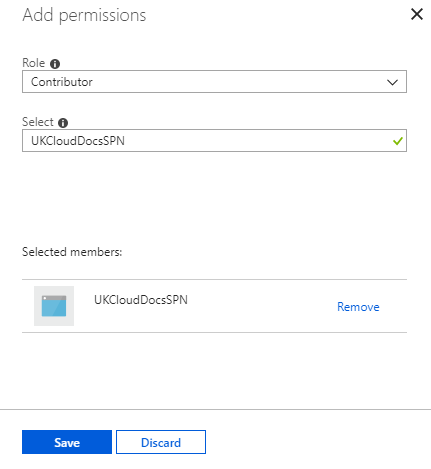
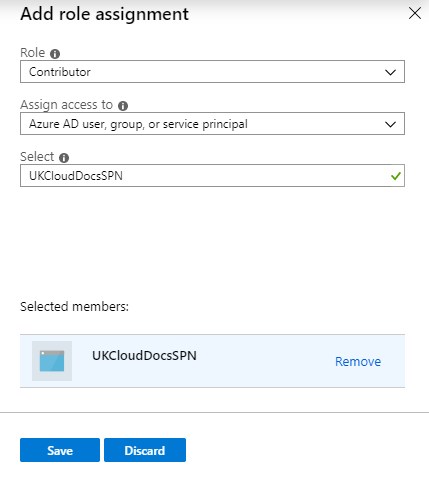
Reviewed article and made changes where needed.

diff --git a/articles/azure/azs-how-create-spn-portal.md b/articles/azure/azs-how-create-spn-portal.md
@@ -94,7 +94,7 @@ To log in and manage your resources via SPN you'll need to create an Azure appli
 
    3. On your subscription's blade, select **Access Control (IAM)**.
 
-3. On the *Access Control (IAM)* blade, click the **+ Add** button.
+3. On the *Access Control (IAM)* blade, click the **+ Add** button and then click **Add role assignment**
 
     ![Add SPN to RBAC](images/azs-browser-add-RBAC-user.png)
 
